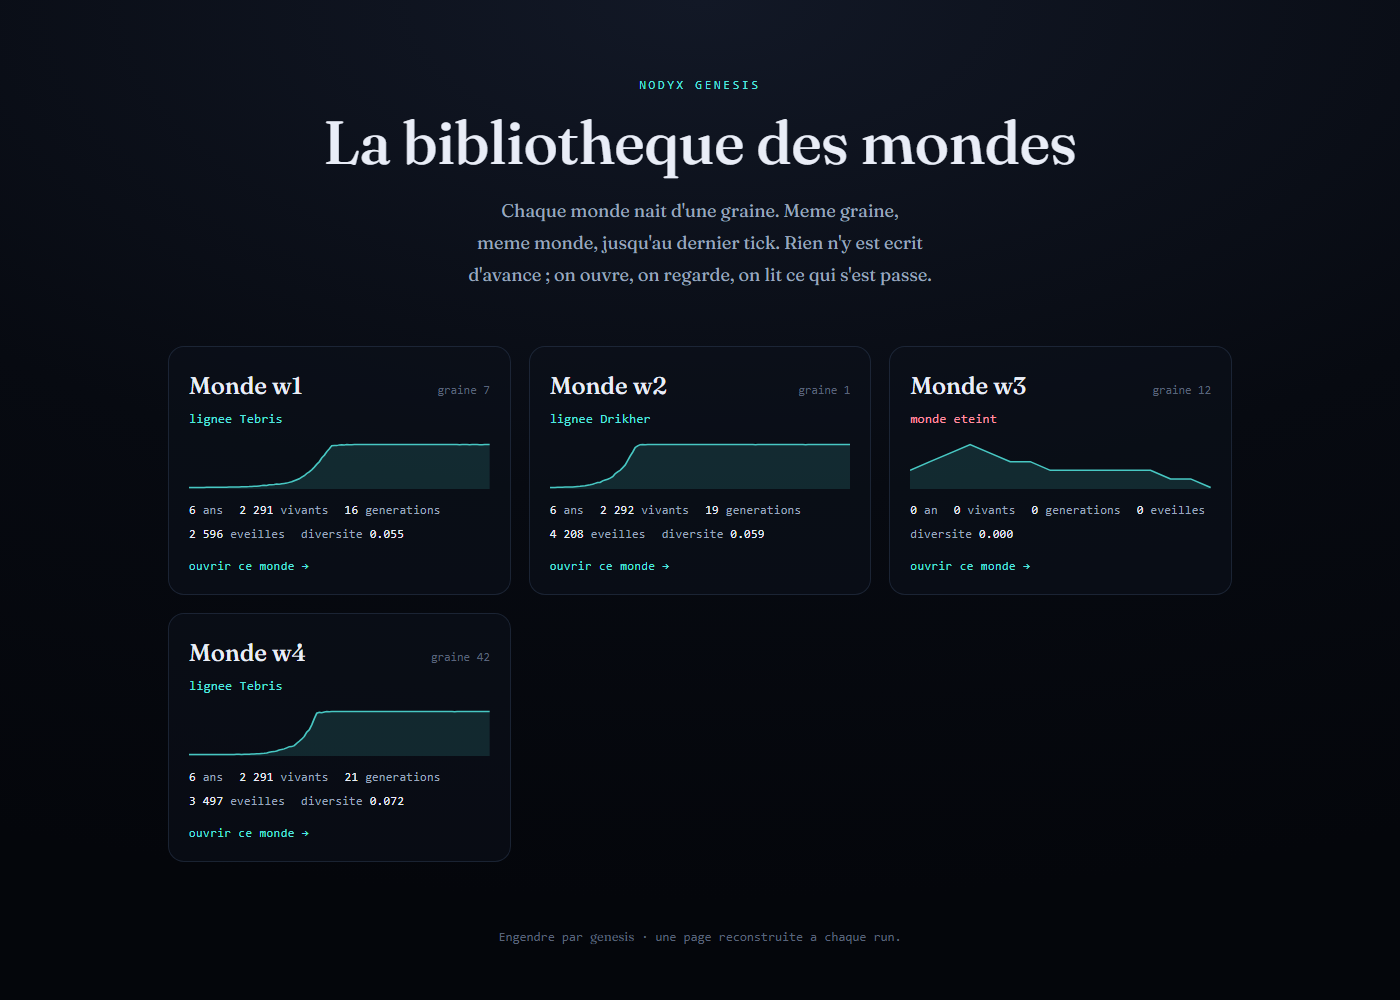
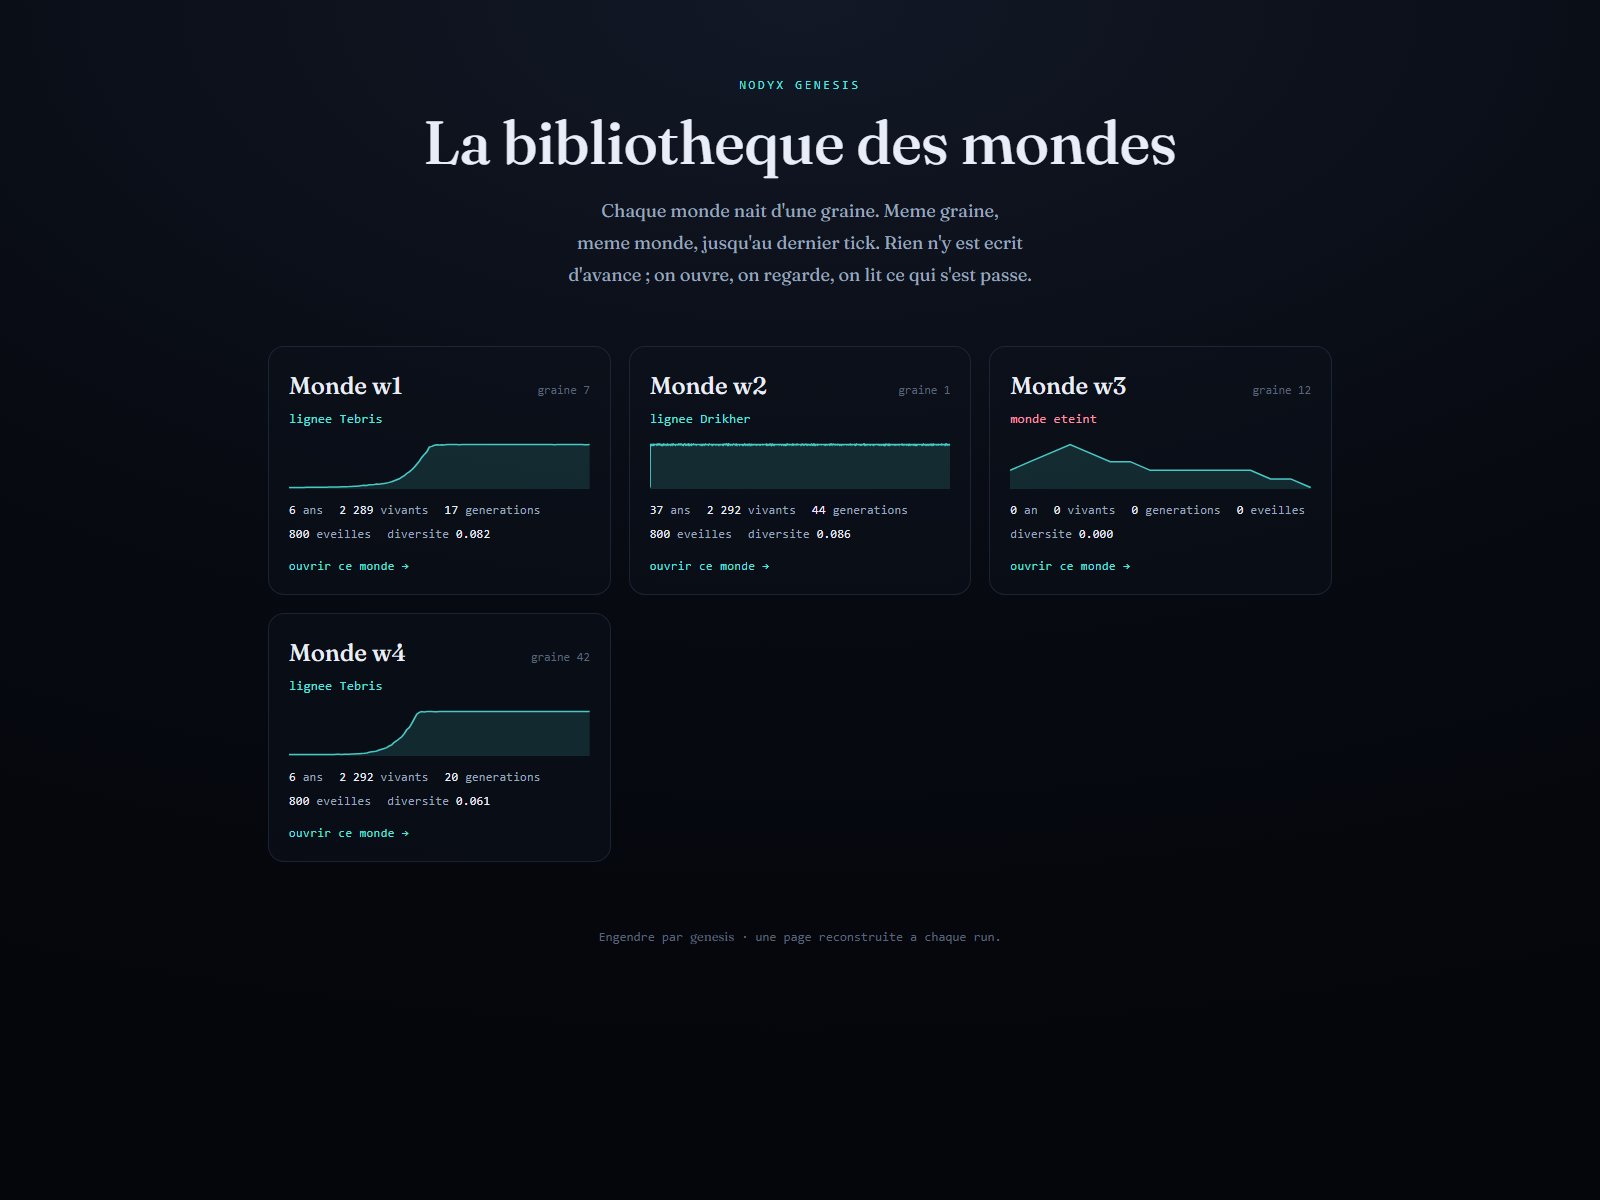
README : cellules, fusion, climat, le direct 24/24
Le README ne parlait ni des cellules et de leur fusion, ni du climat
branche sur la sim, ni de `genesis serve` et de l'overlay du direct. Il
les couvre maintenant, avec les chiffres a jour des quatre mondes de
demonstration (regeneres) et une capture fraiche de la bibliotheque et
d'une page de garde. `genesis` est presente comme binaire installe.

diff --git a/README.md b/README.md
@@ -2,16 +2,17 @@
 
 Nodyx Genesis est un moteur de simulation qui fait pousser un monde vivant a partir d'une
 graine. On pose des regles simples, de la matiere, du temps, et on regarde ce qui arrive :
-des molecules qui se divisent, des cellules qui se forment, des individus qui gardent des
-souvenirs et changent de comportement selon ce qu'ils ont vecu. Le monde continue tout seul,
-sans joueur, et rien de ce qui s'y passe n'est ecrit d'avance. Aucun modele de langage
-n'intervient dans la simulation.
+des molecules qui se divisent, des amas de parents qui se referment en cellules, deux
+membranes qui n'en font plus qu'une, des individus qui gardent des souvenirs et changent de
+comportement selon ce qu'ils ont vecu. Le monde continue tout seul, sans joueur, et rien de
+ce qui s'y passe n'est ecrit d'avance. Aucun modele de langage n'intervient dans la
+simulation.
 
 Le projet fait partie de l'ecosysteme Nodyx. Ce qu'il cherche vraiment, et pourquoi, est
 decrit dans `BIBLE/01_VISION.md`. Le registre complet des decisions, avec leur statut, est
 dans `BIBLE/00_INDEX.md`.
 
-![Un monde de Nodyx Genesis en pleine vie](docs/images/view.png)
+![L'overlay du direct 24/24](docs/images/stream.png)
 
 ## Ce que fait le moteur aujourd'hui
 
@@ -25,11 +26,26 @@ danger, suivre les siens, retourner a une aubaine, ou errer. Elle reconnait les 
 agents qu'elle croise souvent. Sous tout cela, un corps, avec une sante qui integre lentement
 les famines repetees et la vieillesse.
 
-Le jalon suivant, 0.0.4, "Voix", vient de commencer. Un agent qui frole la mort par famine
-emet une alarme a sa position. Les agents proches l'entendent et ont un sursaut de peur, sans
-qu'aucun souvenir ne se forme. Aucun lexique n'est code. A graine egale, cette seule regle
-divise les morts par famine d'environ un dixieme et augmente nettement la diversite genetique :
-un cri, et les voisins quittent une zone qui tue.
+En dessous des individus, il y a les cellules. Un groupe d'entites proches, genetiquement
+parentes, cohesives et persistant devient une unite reconnue, une membrane qui partage
+l'energie et protege la reproduction de ses membres. Depuis peu, deux cellules stables dont
+les membranes se chevauchent et dont les genomes se ressemblent fusionnent : la plus grosse
+garde son identite, la petite y disparait, le genome de l'ensemble est remanie. Personne ne
+declenche une fusion. C'est une condition geometrique et genetique que le monde franchit
+quand deux colonies parentes derivent l'une dans l'autre.
+
+Le monde a aussi un climat. Sa temperature, sa gravite, sa pression sont fixees a la
+creation et ne changent pas. La temperature agit sur le cout du metabolisme : un monde loin
+de son optimum thermique est plus dur a habiter, on y meurt plus de faim, la selection y est
+plus rude. La gravite renchit le deplacement. A graine egale, un monde plus froid voit sa
+diversite genetique s'effondrer d'un tiers ; un monde plus chaud tourne plus vite, plus de
+generations, une vitesse moyenne bien plus haute. Meme graine, autre planete, autre vie.
+
+Le jalon 0.0.4, "Voix", a commence. Un agent qui frole la mort par famine emet une alarme a
+sa position. Les agents proches l'entendent et ont un sursaut de peur, sans qu'aucun souvenir
+ne se forme. Aucun lexique n'est code. A graine egale, cette seule regle divise les morts par
+famine d'environ un dixieme et augmente nettement la diversite genetique : un cri, et les
+voisins quittent une zone qui tue.
 
 Tout changement de regle passe par une comparaison a graine egale, avec son effet documente.
 On ne regle jamais une regle parce qu'elle a produit un monde plus plaisant.
@@ -41,12 +57,36 @@ pres, tick apres tick. C'est ce qui rend les experiences reproductibles, et c'es
 qui permet au monde de surprendre ses createurs, puisqu'on ne peut pas le corriger en douce.
 
 ```
-cargo run --release -p genesis-cli -- replay worlds/w2
+genesis replay worlds/w2
 ```
 
 La commande rejoue le monde depuis sa graine et affiche `deterministe : OK`, ou `DIFF` avec
 la position exacte de la divergence. Le determinisme est verifie a un thread et a huit
 threads, journaux et instantanes byte-identiques.
+
+## Un monde en direct
+
+Un monde n'a pas besoin de s'arreter. `genesis serve` reprend un monde depuis son dernier
+instantane et le fait avancer sans fin, par petits pas paces, en refaisant ses pages a
+mesure. Avec `--port`, il sert le monde en HTTP, et un tableau de bord de direct devient
+accessible dans un navigateur ou une source OBS.
+
+```
+genesis serve worlds/w2 --port 8080 --rate 45
+```
+
+Ce tableau de bord, `stream.html`, est une vue publique des donnees que Genesis produit deja.
+Une horloge de l'age du monde, le pouls du monde en cinq jauges, le genome dominant en double
+helice avec la derive de chaque trait depuis la genese, le fil des evenements, la courbe de
+population de toute la vie du monde avec les grands tournants poses dessus, les records du
+monde. Quand deux membranes fusionnent, la scene s'assombrit une seconde, un projecteur sur
+le point. Rien n'est invente : chaque chiffre affiche raconte quelque chose du monde.
+
+Un monde qui tourne pendant des mois finit par manquer de memoire ou de disque. Les
+biographies terminees sont oubliees au fil de l'eau, la serie temporelle est plafonnee, on
+ne garde que les instantanes recents, et le journal ne recoit plus le bruit de plateau.
+Avec `--restart`, quand le monde meurt, une nouvelle graine repart au meme endroit et les
+records se transmettent de monde en monde.
 
 ## Regarder un monde
 
@@ -54,7 +94,7 @@ Chaque monde genere s'ouvre par sa page de garde, `index.html`. Un chapeau ecrit
 ses chiffres, sans modele de langage, raconte l'essentiel : les annees vecues, les
 naissances, la plus longue vie d'agent et sa lignee, les especes qui ont emerge, les lignees
 qui se sont eteintes, de quoi on y meurt. Une courbe montre la population sur toute la vie du
-monde. Trois portes menent aux trois lecteurs.
+monde. Trois portes menent aux lecteurs.
 
 ![La page de garde d'un monde](docs/images/world-cover.png)
 
@@ -82,31 +122,33 @@ comportement depend vraiment du souvenir.
 
 ## Les mondes de demonstration
 
-Le depot est livre avec quatre mondes de reference, dans `worlds/`. Chacun nait d'une graine
-differente et raconte une histoire differente. La commande `genesis gallery` reconstruit
-`worlds/index.html`, une grille qui les rassemble ; elle est aussi refaite a la fin de chaque
-run.
+Le depot definit quatre mondes de reference par leur graine. Ils ne sont pas versionnes,
+trop gros, mais toujours regenerables a l'identique : `genesis run --seed <N> --ticks 60000
+--out worlds/<nom>`. La commande `genesis gallery` reconstruit `worlds/index.html`, la grille
+qui les rassemble.
 
 ![La bibliotheque des mondes](docs/images/gallery.png)
 
-Le monde **w2**, graine 1, est le monde de reference du projet. Il vit six annees, atteint
-dix-neuf generations, voit s'eveiller plus de quatre mille individus. Une espece, Khidra,
-emerge tot. La lignee Tebris s'eteint vers la troisieme annee, et Drikher reste seule a la
-fin. La plus longue vie d'agent y dure trente-trois mille ticks. C'est le monde ou la
-cognition fait le plus nettement basculer la population : on y meurt moins de faim et plus de
-vieillesse qu'avant elle.
+Le monde **w2**, graine 1, est le monde de reference du projet. A soixante mille ticks il a
+vecu pres de sept annees-monde et atteint dix-huit generations. Une espece, Khidra, emerge
+dans la premiere annee. La lignee Tebris s'eteint, Drikher reste seule ; la plus longue vie
+d'agent y dure pres de trente-trois mille ticks, dans cette lignee. Les cellules y fusionnent
+cent vingt fois. On y meurt a peu pres deux fois plus de faim que de vieillesse. C'est aussi
+le monde tenu en direct : sur la capture de la bibliotheque ci-dessus il tourne depuis
+plusieurs dizaines d'annees-monde, toujours la meme graine.
 
-Le monde **w1**, graine 7, atteint une population comparable mais garde ses deux lignees
-fondatrices jusqu'au bout. La survie y reste rude : la plupart des individus meurent encore
-de faim. Un monde stable, mais dur.
+Le monde **w1**, graine 7, atteint la meme population de plateau mais reste dur : plus de six
+mille morts de faim, une efficacite metabolique qui ne decolle jamais vraiment. Un monde
+stable et pauvre.
 
-Le monde **w4**, graine 42, est le plus profond et le plus varie des quatre : vingt et une
-generations, la diversite genetique la plus haute. C'est la lignee Drikher qui s'y eteint,
-l'inverse de w2, a partir de la meme regle et sans que rien ne le decide.
+Le monde **w4**, graine 42, est le plus profond et le plus varie : vingt generations, la
+plus haute diversite genetique des quatre, une perception et une efficacite qui grimpent
+toutes les deux. Une lignee fondatrice s'y eteint.
 
-Le monde **w3**, graine 12, meurt jeune : la population monte, culmine, puis s'effondre, et
-le monde s'eteint avant sa premiere annee. Toutes les graines ne donnent pas un monde
-viable, et c'est voulu. Sa page de garde le dit sans detour.
+Le monde **w3**, graine 12, ne prend pas. Les deux fondateurs se divisent quelques fois, la
+population plafonne a cinq, puis les deux lignees s'eteignent l'une apres l'autre avant la
+premiere annee-monde. Toutes les graines ne donnent pas un monde viable, et c'est voulu. Sa
+page de garde le dit sans detour.
 
 ## Installer et lancer
 
@@ -119,22 +161,25 @@ curl --proto '=https' --tlsv1.2 -sSf https://sh.rustup.rs | sh
 
 Sous Windows, l'installeur est sur `https://rustup.rs`.
 
-Pour faire naitre un monde :
+Pour installer le binaire une fois, puis faire naitre un monde :
 
 ```
-cargo run --release -p genesis-cli -- run --seed 1 --ticks 60000 --out worlds/w2
+cargo install --path crates/genesis-cli
+genesis run --seed 1 --ticks 60000 --out worlds/w2
 ```
 
-Les options utiles sont `--out` pour le dossier de sortie, `--config` pour pointer une
-configuration `.toml` (par defaut, les chiffres de `BIBLE/genesis.starter.toml`), et
-`--frame-every` pour l'intervalle entre deux images visuelles. Une longueur de run de
-soixante mille ticks correspond a environ six annees-monde et une vingtaine de generations.
+Sans installation, `cargo run --release -p genesis-cli -- run --seed 1 --ticks 60000 --out
+worlds/w2` fait la meme chose. Les options utiles sont `--out` pour le dossier de sortie,
+`--config` pour pointer une configuration `.toml` (par defaut, les chiffres de
+`BIBLE/genesis.starter.toml`), et `--frame-every` pour l'intervalle entre deux images
+visuelles. Soixante mille ticks font environ sept annees-monde et une vingtaine de
+generations.
 
 Le dossier de sortie contient la configuration utilisee, les metadonnees du monde, les
-instantanes du World State, le journal complet des evenements et sa version reduite aux
-evenements saillants, les frames du ViewState, la serie temporelle des statistiques, et les
-cinq pages HTML : `index.html`, `view.html`, `series.html`, `lives.html`, plus la
-bibliotheque `worlds/index.html` un cran au-dessus.
+instantanes du World State, le journal des evenements et sa version reduite a la chronique,
+les frames du ViewState, la serie temporelle des statistiques, les pages HTML (`index.html`,
+`view.html`, `series.html`, `lives.html`, `stream.html`), et le petit etat vivant relu par
+l'overlay du direct.
 
 ## Tester
 
@@ -145,7 +190,8 @@ cargo test
 Les tests d'invariants sont dans `crates/genesis-core/tests/invariants.rs` : meme graine
 meme monde a la frame pres, instantane plus rejeu egal etat vivant, ordre des evenements,
 memoire et besoins bornes sur quarante mille ticks, les alarmes emises et bornees, les
-cellules coherentes, la personnalite et la sante dans leurs limites.
+cellules coherentes y compris aux ticks de fusion, le climat qui faconne le monde sans le
+casser, la personnalite et la sante dans leurs limites.
 
 ## Le corpus
 
@@ -153,8 +199,9 @@ cellules coherentes, la personnalite et la sante dans leurs limites.
 toutes les decisions avec leur statut. `01_VISION.md` dit ce que le projet cherche.
 `02_ARCHITECTURE.md` pose les dix invariants et le contrat du ViewState. `03_DATA_MODEL.md`
 decrit le modele de donnees. `04_SIMULATION.md` traite du temps. `05_COGNITION.md` suit le
-pont de l'entite vers l'agent, tranche par tranche. `10_ROADMAP.md` tient les sept jalons.
-`GENESIS_FIDELITY.md` verifie l'ecart entre le projet voulu et le projet decide.
+pont de l'entite vers l'agent, tranche par tranche. `10_ROADMAP.md` tient les jalons et
+l'escalier des echelles, de la molecule a la civilisation. `GENESIS_FIDELITY.md` verifie
+l'ecart entre le projet voulu et le projet decide.
 
 ## Structure du depot
 
@@ -162,9 +209,9 @@ pont de l'entite vers l'agent, tranche par tranche. `10_ROADMAP.md` tient les se
 Cargo.toml               le workspace
 rust-toolchain.toml
 crates/
-  genesis-core/          World State, tick, evenements, cognition, persistance ; ne connait aucun rendu
+  genesis-core/          World State, tick, evenements, cognition, cellules, climat ; ne connait aucun rendu
   genesis-view/          le contrat ViewState : projection pure du monde en flux observable
-  genesis-cli/           le binaire genesis : run, replay, gallery, generation des pages
+  genesis-cli/           le binaire genesis : run, replay, continue, serve, gallery ; generation des pages et de l'overlay
 BIBLE/                   le corpus de reference
 experiments/             les prototypes numeriques
 worlds/                  les mondes generes, regenerables par leur graine
